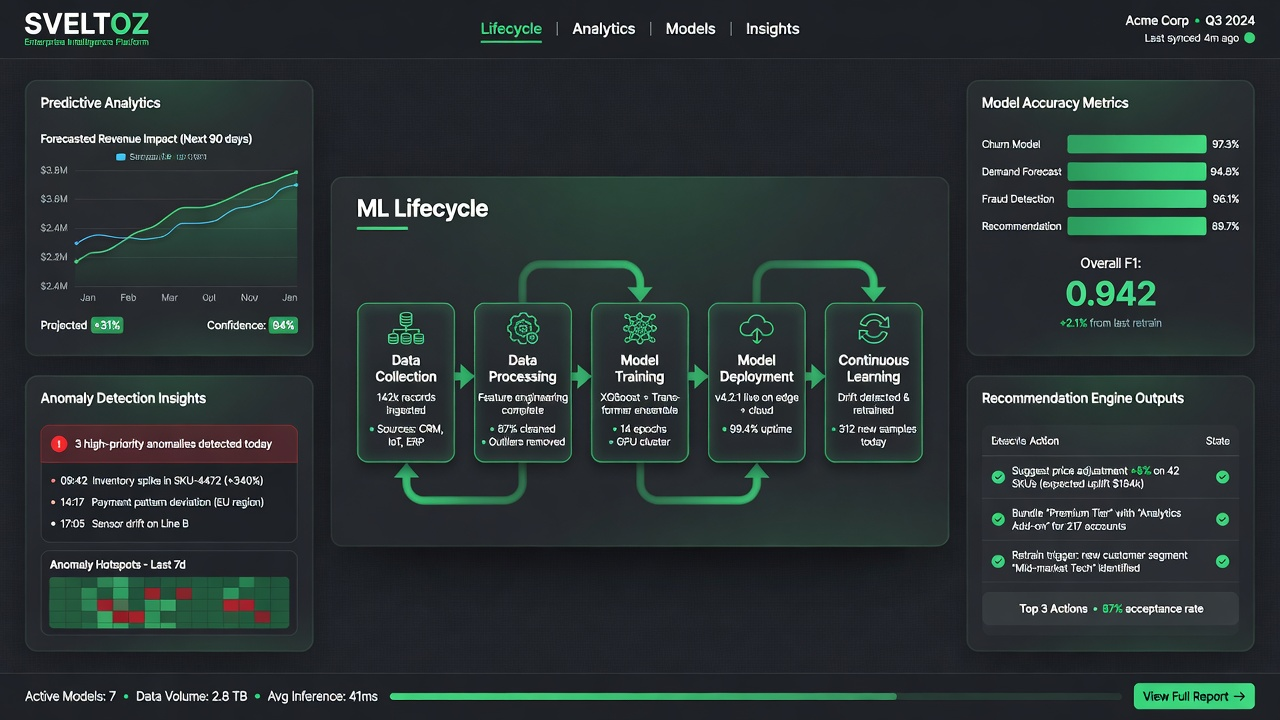
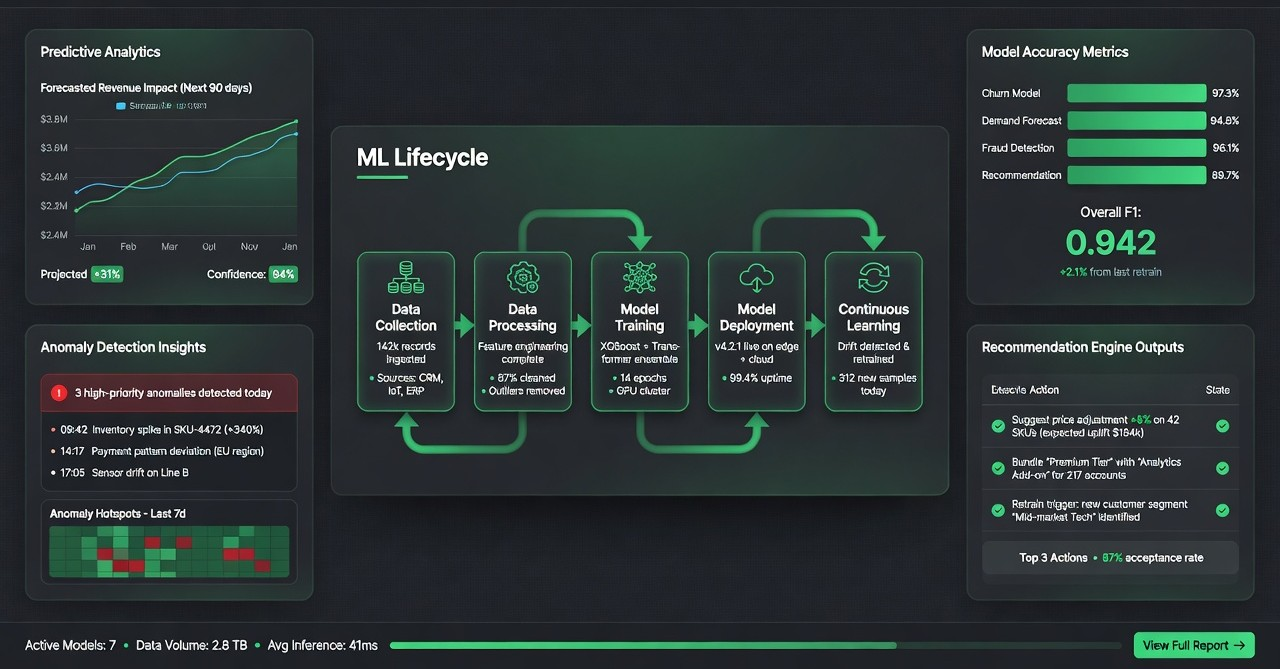
update

diff --git a/src/components/Contact.jsx b/src/components/Contact.jsx
@@ -252,7 +252,8 @@ export default function Contact() {
         
        {/* LEFT SIDE */}
 <motion.div
-  className="space-y-6 mt-12 md:mt-20 order-2 md:order-1"
+ 
+  className="space-y-6 mt-6 md:mt-20 order-2 md:order-1 text-center md:text-left"
   variants={leftContainerVariants}
   initial="hidden"
   whileInView="visible"
@@ -270,27 +271,28 @@ export default function Contact() {
       variants={leftItemVariants}
       className="text-lg md:text-xl font-semibold text-white"
     >
-      Takshion Mechatronics Pvt. Ltd.
+      Takshion  Pvt. Ltd.
     </motion.h3>
 
     <motion.p
       variants={leftItemVariants}
-      className="text-gray-300 mt-2 leading-7 text-justify max-w-sm"
+     className="text-gray-300 mt-2 leading-7 max-w-sm mx-auto md:mx-0 text-center md:text-justify"
     >
-      1004, Kingsbury, Charholi Khurd, Taluka Khed,
-      District Pune, Maharashtra – 412105, India
+      1004, Kingsbury, Charholi Khurd, <br></br>
+      Taluka Khed,District Pune,<br></br>
+       Maharashtra – 412105, India
     </motion.p>
   </div>
 
-  <motion.div
-    variants={leftItemVariants}
-    className="flex items-center gap-3"
-  >
+<motion.div
+  variants={leftItemVariants}
+  className="flex items-center justify-center md:justify-start gap-3"
+>
     <Mail className="w-5 h-5 text-[rgba(92,252,0,0.67)]" />
 
     <a
       href="mailto:[email redacted]"
-      className="text-gray-400 hover:text-[rgba(92,252,0,0.9)] transition-colors"
+    className="text-gray-500 hover:text-[rgba(92,252,0,0.9)] transition-colors text-center md:text-left"
     >
       [email redacted]
     </a>

diff --git a/src/components/Services.jsx b/src/components/Services.jsx
@@ -37,7 +37,7 @@ const services = [
   {
     title: "ROBOTICS & AUTOMATION",
     image: "/img/robot.webp",
-    desc: "Leveraging autonomous mobility, machine perception, RFID-enabled asset intelligence, & AI-powered navigation support, our solutions deliver operational awareness in logistics support & transformation across enterprise environments.",
+    desc: "Leveraging autonomous mobility, machine perception, RFID intelligence, and AI-powered navigation to deliver operational awareness and logistics transformation.",
     features: ["Industrial Robotics", "AI Automation", "Machine Vision", "Process Control"],
   },
   {
@@ -118,7 +118,7 @@ const Card = ({ title, desc, features, image }) => {
         </h3>
 
         {desc && (
-         <p className="text-[16px] pt-2 text-gray-300 mb-3 leading-7 text-justify">
+  <p className="text-[16px] pt-2 text-gray-300 mb-3 leading-normal text-left">
   {desc}
 </p>
         )}

diff --git a/index.html b/index.html
@@ -4,7 +4,7 @@
 <meta charset="UTF-8" />
 <meta name="viewport" content="width=device-width, initial-scale=1.0">
 
-<title>Takshion Mechatronics | Indian Deep-Tech & Autonomous Systems Company</title>
+<title>Takshion  | Indian Deep-Tech & Autonomous Systems Company</title>
 
 <link rel="icon" type="image/webp" sizes="100x100"  href="/img/favicon.webp" />
 

diff --git a/src/components/Footer.jsx b/src/components/Footer.jsx
@@ -28,7 +28,7 @@ export default function Footer() {
       <div className="relative z-10 max-w-6xl mx-auto px-6 py-6">
         <div className="flex items-center justify-center">
           <p className="text-sm tracking-[0.15em] text-white/40 text-center">
-            © 2026 Takshion Mechatronics Pvt. Ltd. All rights reserved.
+            © 2026 Takshion Pvt. Ltd. All rights reserved.
           </p>
         </div>
       </div>

diff --git a/src/components/Hero.jsx b/src/components/Hero.jsx
@@ -327,7 +327,7 @@ export default function Hero() {
     className="block uppercase text-sm font-semibold tracking-[2px]"
     style={{ color: "rgba(92, 252, 0, 0.67)" }}
   >
-    TAKSHION MECHATRONICS PVT. LTD.
+    TAKSHION  PVT. LTD.
   </span>
 </div>
           <AnimatePresence mode="wait">

diff --git a/src/components/Story.jsx b/src/components/Story.jsx
@@ -24,7 +24,7 @@ export default function Story() {
   };
 
   return (
-    <section id="story" className="py-16 px-4 relative scroll-mt-[40px]">
+    <section id="story" className="py-16 px-4 relative scroll-mt-[-40px]">
       <div className="max-w-7xl mx-auto flex flex-col md:flex-row items-center gap-10">
         {/* LEFT IMAGE: REALISTIC, SLOW 3D SLIDE-IN */}
         <div className="w-full md:w-1/2 flex justify-center relative overflow-hidden md:overflow-visible px-2">

diff --git a/src/components/Vision.jsx b/src/components/Vision.jsx
@@ -24,7 +24,7 @@ export default function Vision() {
   };
 
   return (
-    <section id="vision" className="py-12  px-4 scroll-mt-[60px]">
+    <section id="vision" className="py-12  px-4 scroll-mt-[30px]">
       <div className="max-w-7xl mx-auto flex flex-col md:flex-row items-center gap-10">
 
         {/* LEFT GLASS CARD (Staggered Text) */}